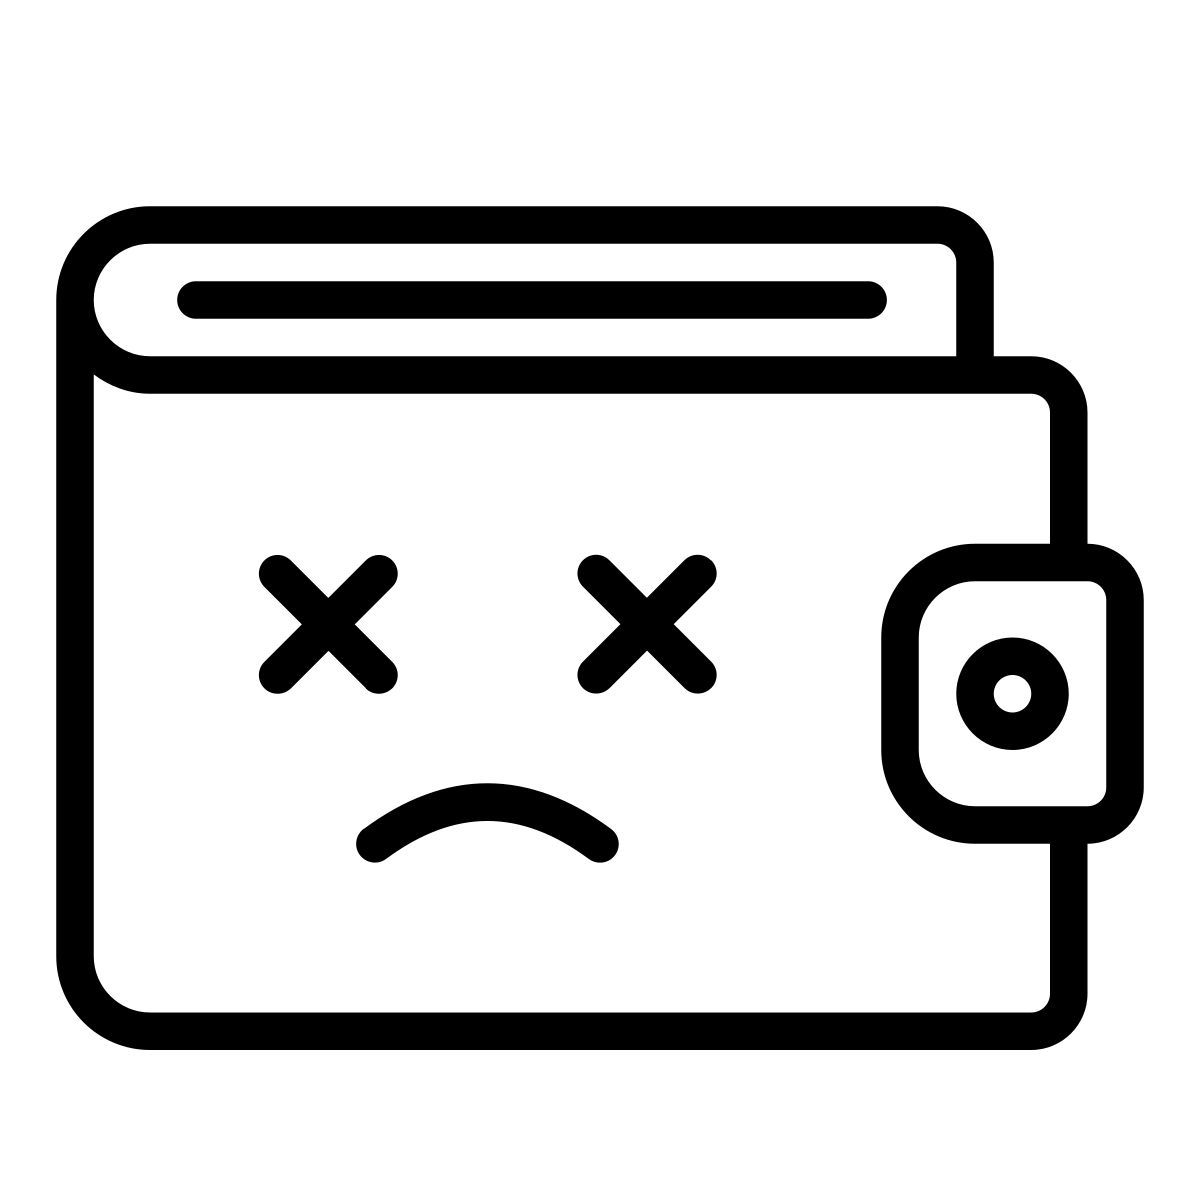
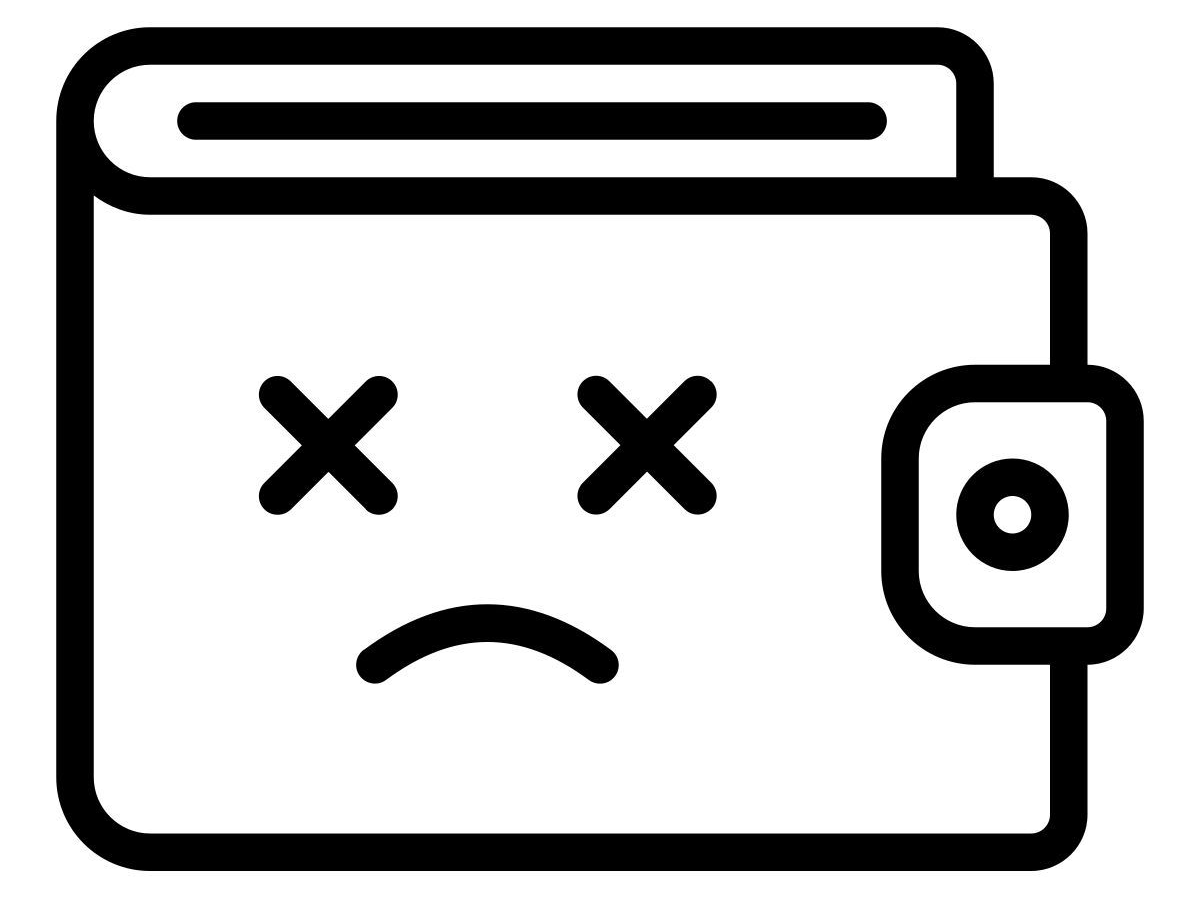
hibajavítás

diff --git a/angular/src/app/shared/stores/user-data-store.ts b/angular/src/app/shared/stores/user-data-store.ts
@@ -5,15 +5,15 @@ import { WalletDataInterfaceWithoutSum } from '../../features/wallet/interfaces'
 
 interface UserDataState {
     /**
-     * Felhasználónév
+     * Felhasználónév (privát)
      */
     _username: string;
     /**
-     * Store adatai be vannak-e már töltve
+     * Store adatai be vannak-e már töltve (privát)
      */
     _isLoaded: boolean;
     /**
-     * Wallet adatok
+     * Wallet adatok (privát)
      */
     _wallets: WalletDataInterfaceWithoutSum[] | null;
 }
@@ -35,8 +35,8 @@ export const UserDataStore = signalStore(
     })),
     withMethods((store) => ({
         /**
-         * Guard a wallet lekérdezéshez
-         * Külön withMethods, hogy a getDefaultWallet tudjon rá hivatkozni
+         * Wallet getter
+         * Külön withMethods-ban található, hogy a getDefaultWallet tudjon rá hivatkozni
          */
         getWallets(): WalletDataInterfaceWithoutSum[] {
             const wallets = store._wallets();
@@ -84,8 +84,8 @@ export const UserDataStore = signalStore(
             patchState(store, { _wallets: wallets });
         },
 
-        getUsername() {
-            return store._username
+        getUsername(): string {
+            return store._username()
         }
     })),
 );

diff --git a/angular/src/app/features/error/error-page-component.html b/angular/src/app/features/error/error-page-component.html
@@ -1,12 +1,10 @@
-<mat-card>
-    <h1 mat-card-title class="text-center">{{ 'error.not_found' | translate }}</h1>
+<div class="text-center">
+    <h1 mat-card-title >404</h1>
+    <h2 mat-card-subtitle>{{ 'error.not_found' | translate }}</h2>
     <div class="image-wrapper text-center">
         <img src="/assets/images/404.png" alt="error-image" />
     </div>
-    <mat-card-actions>
-        <button #mainPageButton mat-flat-button (click)="redirectToMainPage()">
-            {{ 'error.back_to_main' | translate }}
-        </button>
-    </mat-card-actions>
-</mat-card>
-<!-- TODO aria tagok???? -->
+    <button #mainPageButton mat-flat-button (click)="redirectToMainPage()">
+        {{ 'error.back_to_main' | translate }}
+    </button>
+</div>

diff --git a/angular/src/app/features/error/error-page-component.scss b/angular/src/app/features/error/error-page-component.scss
@@ -4,6 +4,6 @@
         width: 100%;
         height: auto;
         max-width: 500px;
-        max-height: 500px;
+        max-height: 375;
     }
 }
